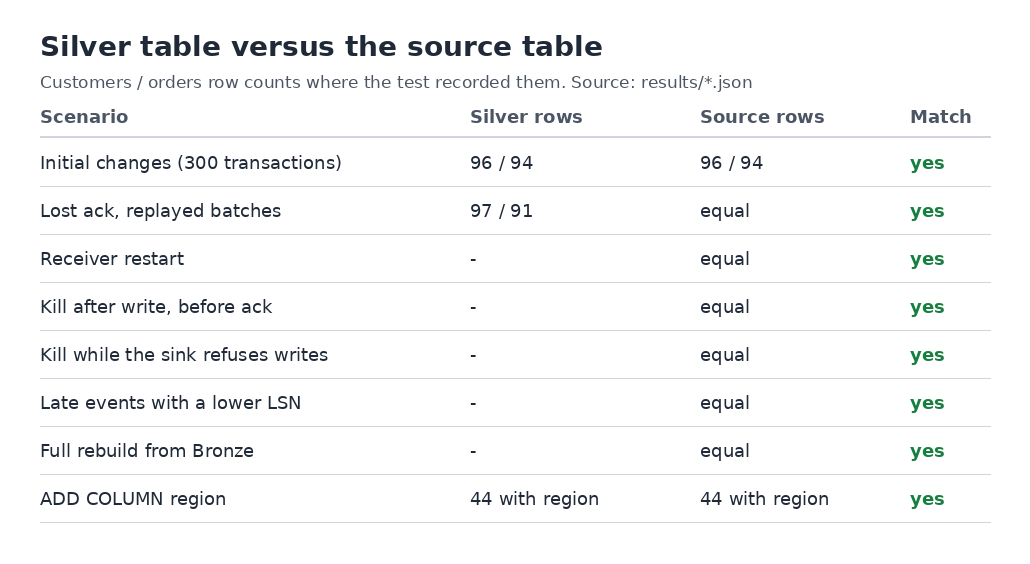
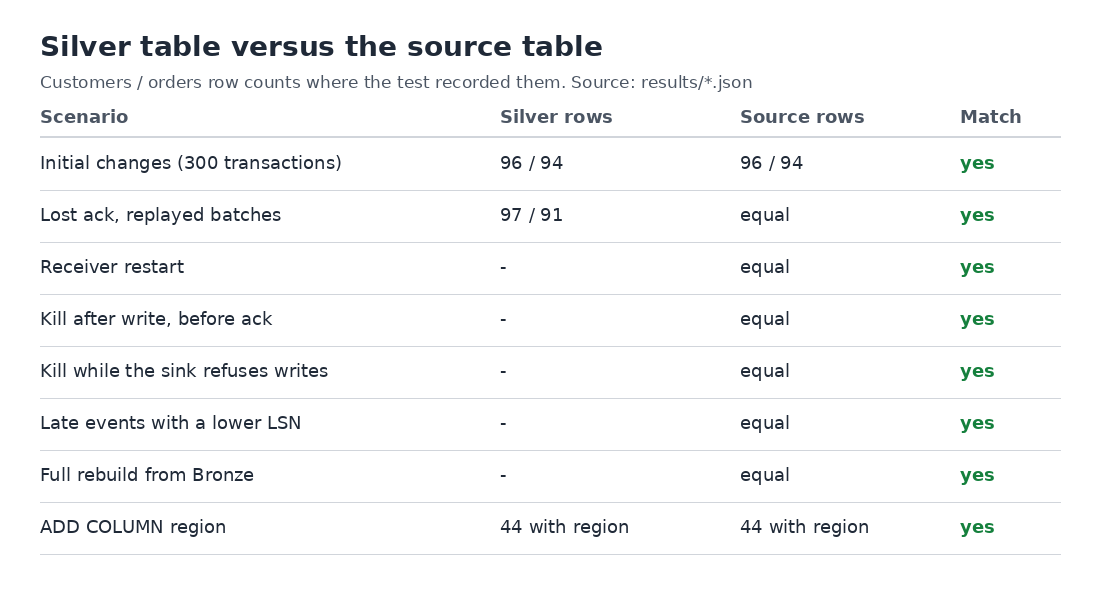
Charts: one fixed canvas size so the README grid aligns

diff --git a/scripts/render_snapshots.py b/scripts/render_snapshots.py
@@ -28,6 +28,8 @@ SANS_BOLD = [
 ]
 MONO = [os.environ.get("FONT_MONO"), "/usr/share/fonts/truetype/dejavu/DejaVuSansMono.ttf", "/System/Library/Fonts/Menlo.ttc"]
 
+CANVAS = (1100, 600)  # every findings chart uses the same size so they align in the README
+
 INK = (31, 41, 55)
 MUTED = (75, 85, 99)
 RULE = (209, 213, 219)
@@ -97,13 +99,12 @@ def bar_chart(
     dest: Path, heading: str, sub: str, bars: list[tuple[str, float, str, tuple[int, int, int]]], note: str
 ) -> None:
     label_f, val_f = font(SANS, 18), font(SANS_BOLD, 18)
+    w, h = CANVAS
     label_w = 400
-    plot_w = 520
     val_w = 200
-    w = 40 + label_w + plot_w + val_w + 40
-    row_h = 62
+    plot_w = w - 40 - label_w - val_w - 40
     top = 130
-    h = top + row_h * len(bars) + 90
+    row_h = min(90, (h - top - 90) // len(bars))
     img = Image.new("RGB", (w, h), WHITE)
     d = ImageDraw.Draw(img)
     title(d, heading, sub, w)
@@ -112,11 +113,12 @@ def bar_chart(
     d.line((x0, top - 12, x0, top + row_h * len(bars)), fill=RULE, width=2)
     for i, (label, value, text, color) in enumerate(bars):
         y = top + i * row_h
-        d.text((40, y + 14), label, font=label_f, fill=INK)
+        pad_y = (row_h - 36) // 2
+        d.text((40, y + pad_y + 6), label, font=label_f, fill=INK)
         bw = max(int(plot_w * value / mx), 0)
         if bw:
-            d.rectangle((x0 + 2, y + 8, x0 + 2 + bw, y + 44), fill=color)
-        d.text((x0 + 2 + bw + 16, y + 14), text, font=val_f, fill=INK)
+            d.rectangle((x0 + 2, y + pad_y, x0 + 2 + bw, y + pad_y + 36), fill=color)
+        d.text((x0 + 2 + bw + 16, y + pad_y + 6), text, font=val_f, fill=INK)
     d.text((40, h - 52), note, font=font(SANS, 16), fill=MUTED)
     img.save(dest, optimize=True)
 
@@ -199,10 +201,10 @@ def main() -> None:
         ),
     ]
     f, fb = font(SANS, 18), font(SANS_BOLD, 18)
-    cols = [40, 470, 700, 910]
-    row_h = 48
+    cols = [40, 500, 740, 960]
+    w, h = CANVAS
+    row_h = 52
     top = 140
-    w, h = 1030, top + row_h * len(rows) + 40
     img = Image.new("RGB", (w, h), WHITE)
     d = ImageDraw.Draw(img)
     title(d, "Silver table versus the source table", "Customers / orders row counts where the test recorded them. Source: results/*.json", w)
